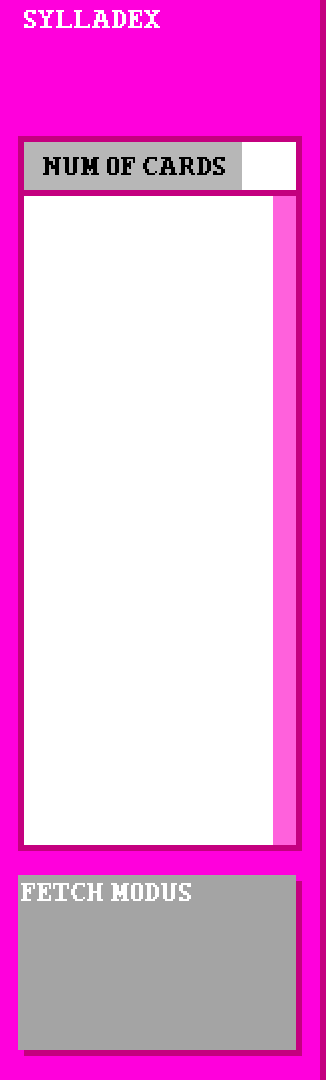
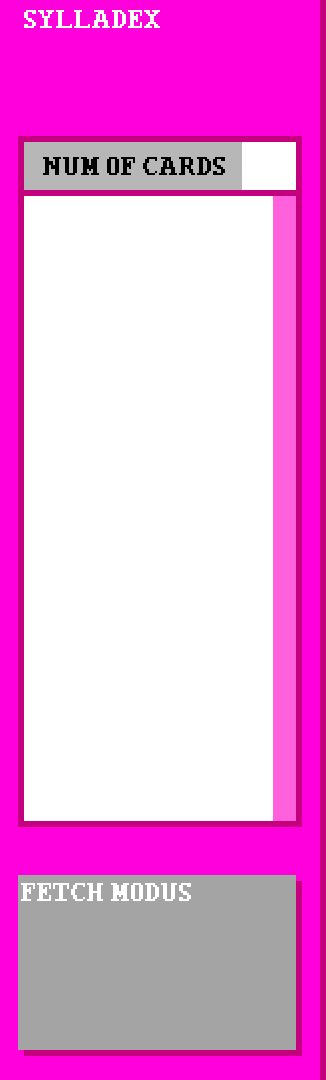
Scrollbar almost done

Changed region(s): [[0.0307, 0.7333, 0.9509, 0.7944]]

diff --git a/sylladex/uiElements/scrollBar.py b/sylladex/uiElements/scrollBar.py
@@ -15,11 +15,13 @@ class ScrollBar(pg.sprite.Sprite):
         self.itemList = cardList
 
         if len(self.itemList) == 0:
-            sections = 0
+            size = 0
         else:
-        
-            sections = 631 / len(self.itemList)
-        size = sections * 9
+            if len(self.itemList) > 9:
+                sections = 625 / len(self.itemList) 
+                size = sections * 8
+            else:
+                size = 0
         self.image = pg.Surface((23, size))
         self.image.fill((255, 0, 220))
         self.rect = pg.Rect(273, 196, 23, size)
@@ -29,18 +31,37 @@ class ScrollBar(pg.sprite.Sprite):
     def on_click(self):
         self.selected = True 
 
-    def move_bar(self, mousePos):
-        checkNum = 631 / len(self.itemList)
-        # checkNum = startNum * (len(self.itemList)- 9 )
-        # self.rectTemp += rel[1]
-        if mousePos[1] >= self.rect.y + checkNum:
-            self.rect.y += checkNum
+    def move_bar(self, rel, pos):
+        checkNum = 625 / len(self.itemList)
+        self.rect.y = pos[1]
+        if self.rect.y < 196:
+            self.rect.y = 196
+            for cardItem in self.itemList:
+                cardItem.rect.y = 196 + (70 * self.itemList.index(cardItem))
 
-            for item in self.itemList:
-                item.rect.y -= 70
+        elif self.rect.y + self.rect.h > 821:
+            self.rect.y = 821 - self.rect.h
+            for cardItem in self.itemList:
+                cardItem.rect.y = 196 - (70 * ((len(self.itemList)-9) - self.itemList.index(cardItem)))
 
-        elif mousePos[1] <= self.rect.y - checkNum:
-            self.rect.y -= checkNum
+        else:
+            tempNum = checkNum
+            allChecks = []
+            for newCheck in range(0, len(self.itemList)-9):
+                allChecks.append(tempNum + 196)
+                tempNum += checkNum
 
-            for item in self.itemList:
-                item.rect.y += 70
+            for check in allChecks:
+                if self.rect.y >= check:
+
+                    if self.itemList[0].rect.y > 196 - (70 * allChecks.index(check)):
+                        
+                        for cardItem in self.itemList:
+                            cardItem.rect.y -= 70
+                
+                if self.rect.y <= check:
+
+                    if self.itemList[0].rect.y < 196 - (70 * allChecks.index(check)):
+                        
+                        for cardItem in self.itemList:
+                            cardItem.rect.y += 70

diff --git a/sylladex/sylladexMain.py b/sylladex/sylladexMain.py
@@ -5,6 +5,7 @@ from sylladex.uiElements.gristCacheButton import GristCacheButton
 from sylladex.uiElements.popUp import PopUp
 from sylladex.uiElements.numTextField import NumTextField
 from sylladex.uiElements.scrollBar import ScrollBar
+from sylladex.uiElements.listObject import ListObject
 
 
 import pygame as pg
@@ -44,7 +45,7 @@ def main():
                 for elem in UIBase.get_group("ui"):
                     if isinstance(elem, ScrollBar):
                         if elem.selected == True:
-                            elem.move_bar(event.pos)
+                            elem.move_bar(event.rel, event.pos)
 
             if event.type == pg.KEYDOWN:
                 for elem in UIBase.get_group("ui"):
@@ -59,12 +60,14 @@ def main():
             else:
                 elem.negate = False
 
-        for elem in UIBase.get_group("ui"):
             if isinstance(elem, PopUp):
                 if pg.time.get_ticks() - elem.last >= elem.timer:
                     elem.remove()
                     if elem:
                         elem.last = pg.time.get_ticks()
+
+            if isinstance(elem, ListObject):
+                elem.update()
 
         clock.tick(30)
         screen.fill((183, 183, 183))

diff --git a/sylladex/uiElements/listObject.py b/sylladex/uiElements/listObject.py
@@ -10,6 +10,14 @@ class ListObject(UIBase):
 
         self.font = pg.font.Font("sylladex/uiElements/asset/MISC/DisposableDroidBB.ttf", 24)
 
-        self.text = length
+        self.text = str(int(length) + 1)
         self.txt_surface = self.font.render(self.text, True, (0,0,0))
         self.image.blit(self.txt_surface, (10,10))
+
+        self.interactable = True
+    
+    def update(self):
+        if self.rect.y >= 196 and self.rect.y <= 757:
+            self.interactable = True
+        else:
+            self.interactable = False

diff --git a/sylladex/uiElements/numTextField.py b/sylladex/uiElements/numTextField.py
@@ -26,6 +26,7 @@ class NumTextField(UIBase):
                 if amount < 0:
                     for removeCard in range(0, amount*-1):
                         elem.remove_fromList()
+                        elem.place_list()
                 else:
                     for newCard in range(0, amount):
                         elem.add_toList()
